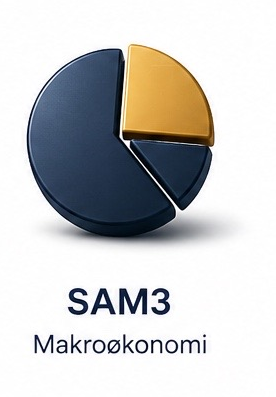
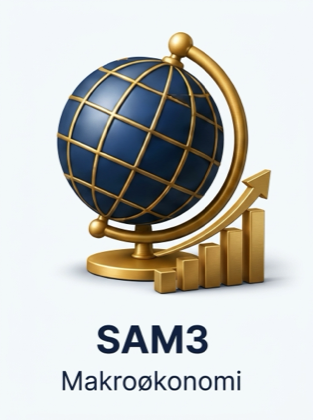
Add MET3 and RRR11 emblems and refresh subject emblems

diff --git a/shared/subject-meta.js b/shared/subject-meta.js
@@ -31,7 +31,7 @@
       code: 'MET3',
       name: 'Databehandling for økonomer',
       icon: 'ƒ',
-      emblem: '../assets/haugnes-logo-mark.svg',
+      emblem: '../assets/emblems/MET3.png',
       accent: '#15803d',
       status: 'active',
       statusText: 'Klar',
@@ -318,6 +318,31 @@
     } catch (e) {}
   }
 
+  var DEDICATED_EMBLEMS = {
+    BED1: '../assets/emblems/BED1.png',
+    KOM1: '../assets/emblems/KOM1.png',
+    MAT10: '../assets/emblems/MAT10.png',
+    MET1: '../assets/emblems/MET1.png',
+    MET2: '../assets/emblems/MET2.png',
+    MET3: '../assets/emblems/MET3.png',
+    RET14: '../assets/emblems/RET14.png',
+    RET1A: '../assets/emblems/RET1A.png',
+    RRR11: '../assets/emblems/RRR11.png',
+    SAM1A: '../assets/emblems/SAM1A.png',
+    SAM2: '../assets/emblems/SAM2.png',
+    SAM3: '../assets/emblems/SAM3.png',
+    SOL1: '../assets/emblems/SOL1.png'
+  };
+
+  function resolveSubjectEmblem(subjectCode, candidate, fallback) {
+    var clean = code(subjectCode);
+    var dedicated = DEDICATED_EMBLEMS[clean];
+    if (dedicated && (!candidate || /haugnes-logo-mark\.svg$|Flashcardslogo\.png$/i.test(String(candidate)))) {
+      return dedicated;
+    }
+    return candidate || dedicated || fallback || '../assets/Flashcardslogo.png';
+  }
+
   function allSubjectList() {
     var custom = loadCustomSubjectsLocal();
     var map = {};
@@ -328,14 +353,15 @@
     });
     custom.forEach(function (c) {
       var cCode = code(c.code);
+      var patched = Object.assign({}, c, { emblem: resolveSubjectEmblem(cCode, c.emblem) });
       if (!map[cCode]) {
         map[cCode] = true;
-        var decorated = withCategory(Object.assign({}, c), c.categoryId || 'electives', c.sortOrder || 99);
+        var decorated = withCategory(patched, c.categoryId || 'electives', c.sortOrder || 99);
         list.push(decorated);
       } else {
         var idx = list.findIndex(function (item) { return code(item.code) === cCode; });
         if (idx !== -1) {
-          list[idx] = withCategory(Object.assign({}, list[idx], c), c.categoryId || list[idx].categoryId || 'electives', c.sortOrder || list[idx].sortOrder || 99);
+          list[idx] = withCategory(Object.assign({}, list[idx], patched), c.categoryId || list[idx].categoryId || 'electives', c.sortOrder || list[idx].sortOrder || 99);
         }
       }
     });
@@ -362,7 +388,7 @@
       categoryId: categoryId,
       accent: accent,
       icon: iconStr,
-      emblem: data.emblem || '../assets/Flashcardslogo.png',
+      emblem: resolveSubjectEmblem(cleanCode, data.emblem),
       path: path,
       flashcards: flashcards,
       status: data.status || 'active',
@@ -464,7 +490,7 @@
       name: row.name || cleanCode,
       kicker: row.kicker || '',
       icon: row.icon || '📚',
-      emblem: '../assets/Flashcardslogo.png',
+      emblem: resolveSubjectEmblem(cleanCode, row.emblem),
       accent: row.accent || '#2563eb',
       categoryId: row.category_id || 'electives',
       status: deriveStatus(row.status_text),
@@ -635,7 +661,7 @@
         code: subjectCode,
         name: row.name || previous.name || subjectCode,
         icon: row.icon || previous.icon || '✦',
-        emblem: row.emblem || previous.emblem || '',
+        emblem: resolveSubjectEmblem(subjectCode, row.emblem || previous.emblem, ''),
         accent: row.accent || previous.accent || '#2f62ff',
         status: row.status || previous.status || 'active',
         statusText: previous.statusText || 'Aktiv',

diff --git a/user/butikk.html b/user/butikk.html
@@ -261,14 +261,14 @@ a{text-decoration:none;color:inherit}button,input,select{font-family:inherit}
 <script src="../shared/auth-guard.js?v=20261020-cleanup"></script>
 <script>
 var SUBJECTS = [
-  { code: 'RET14', name: 'Skatterett', accent: '#2f62ff', icon: '⚖', summary: 'Skatt, fradrag, aksjer, personinntekt, arv og eksamensanalyse.' },
-  { code: 'SOL1', name: 'Organisasjonsatferd', accent: '#20b97a', icon: '♣', summary: 'Begreper, teorier, modeller, caseforståelse og teoriskriving.' },
-  { code: 'SAM2', name: 'Mikroøkonomi', accent: '#f09828', icon: '◔', summary: 'Konsumentteori, produsentteori, marked og velferd.' },
-  { code: 'SAM3', name: 'Makroøkonomi', accent: '#ef4444', icon: '↗', summary: 'IS-MP, Phillipskurven, Solow og Romer — komplette V25- og V26-pakker.' },
-  { code: 'MET2', name: 'Metode', accent: '#7c3aed', icon: 'Σ', summary: 'Statistikk, hypotesetesting og kvantitativ metode.' },
-  { code: 'MET3', name: 'Databehandling for økonomer', accent: '#15803d', icon: 'ƒ', summary: 'Excel-formler, praktiske modeller og Power Query.' },
-  { code: 'MAT10', name: 'Matematikk', accent: '#0891b2', icon: '∫', summary: 'Funksjoner, derivasjon, integrasjon og lineær algebra.' },
-  { code: 'SAM1A', name: 'Mikroøkonomi intro', accent: '#f09828', icon: '↗', emblem: '../assets/emblems/SAM1A.png', summary: 'Læringsmål, kompendium og eksamensrelevante modeller.' },
+  { code: 'RET14', name: 'Skatterett', accent: '#2f62ff', icon: '⚖', emblem: '../assets/emblems/RET14.png', summary: 'Skatt, fradrag, aksjer, personinntekt, arv og eksamensanalyse.' },
+  { code: 'SOL1', name: 'Organisasjonsatferd', accent: '#20b97a', icon: '♣', emblem: '../assets/emblems/SOL1.png', summary: 'Begreper, teorier, modeller, caseforståelse og teoriskriving.' },
+  { code: 'SAM2', name: 'Mikroøkonomi', accent: '#f09828', icon: '◔', emblem: '../assets/emblems/SAM2.png', summary: 'Konsumentteori, produsentteori, marked og velferd.' },
+  { code: 'SAM3', name: 'Makroøkonomi', accent: '#ef4444', icon: '↗', emblem: '../assets/emblems/SAM3.png', summary: 'IS-MP, Phillipskurven, Solow og Romer — komplette V25- og V26-pakker.' },
+  { code: 'MET2', name: 'Metode', accent: '#7c3aed', icon: 'Σ', emblem: '../assets/emblems/MET2.png', summary: 'Statistikk, hypotesetesting og kvantitativ metode.' },
+  { code: 'MET3', name: 'Databehandling for økonomer', accent: '#15803d', icon: 'ƒ', emblem: '../assets/emblems/MET3.png', summary: 'Excel-formler, praktiske modeller og Power Query.' },
+  { code: 'MAT10', name: 'Matematikk', accent: '#0891b2', icon: '∫', emblem: '../assets/emblems/MAT10.png', summary: 'Funksjoner, derivasjon, integrasjon og lineær algebra.' },
+  { code: 'SAM1A', name: 'Etikk, økonomi og bærekraft', accent: '#f09828', icon: '↗', emblem: '../assets/emblems/SAM1A.png', summary: 'Læringsmål, kompendium og eksamensrelevante modeller.' },
   { code: 'MET1', name: 'Matematikk for økonomer', accent: '#06b6d4', icon: '%', emblem: '../assets/emblems/MET1.png', summary: 'NNV, rente, annuitet og metodeoppgaver.' },
   { code: 'KOM1', name: 'Kommunikasjon', accent: '#e8bc68', icon: '✎', emblem: '../assets/emblems/KOM1.png', summary: 'Rapport, presentasjon og akademisk skriving.' },
   { code: 'RET1A', name: 'Juridiske emner', accent: '#3b82f6', icon: '§', emblem: '../assets/emblems/RET1A.png', summary: 'Avtalerett, pengekrav, selskapsrett og juridisk metode.' },

diff --git a/shared/subject-access.js b/shared/subject-access.js
@@ -11,14 +11,14 @@
   var CORE_CODES = ['RET14', 'SOL1', 'SAM2', 'SAM3'];
   var DEFAULT_CODES = ['RET14', 'SOL1', 'SAM2', 'SAM3', 'MET2', 'MET3', 'MAT10', 'SAM1A', 'MET1', 'KOM1', 'RET1A', 'BED1'];
   var FALLBACK_CATALOG = [
-    { code: 'MET3', name: 'Databehandling for økonomer', accent: '#15803d', icon: 'ƒ' },
-    { code: 'RET14', name: 'Skatterett', accent: '#2f62ff', icon: '⚖' },
-    { code: 'SOL1', name: 'Organisasjonsatferd', accent: '#20b97a', icon: '🧠' },
-    { code: 'SAM2', name: 'Mikroøkonomi', accent: '#f09828', icon: '📈' },
-    { code: 'SAM3', name: 'Makroøkonomi', accent: '#ef4444', icon: '🌍' },
-    { code: 'MET2', name: 'Metode', accent: '#7c3aed', icon: 'Σ' },
-    { code: 'MAT10', name: 'Matematikk', accent: '#0891b2', icon: '∫' },
-    { code: 'SAM1A', name: 'Mikroøkonomi intro', accent: '#f09828', icon: '↗', emblem: '../assets/emblems/SAM1A.png' },
+    { code: 'MET3', name: 'Databehandling for økonomer', accent: '#15803d', icon: 'ƒ', emblem: '../assets/emblems/MET3.png' },
+    { code: 'RET14', name: 'Skatterett', accent: '#2f62ff', icon: '⚖', emblem: '../assets/emblems/RET14.png' },
+    { code: 'SOL1', name: 'Organisasjonsatferd', accent: '#20b97a', icon: '🧠', emblem: '../assets/emblems/SOL1.png' },
+    { code: 'SAM2', name: 'Mikroøkonomi', accent: '#f09828', icon: '📈', emblem: '../assets/emblems/SAM2.png' },
+    { code: 'SAM3', name: 'Makroøkonomi', accent: '#ef4444', icon: '🌍', emblem: '../assets/emblems/SAM3.png' },
+    { code: 'MET2', name: 'Metode', accent: '#7c3aed', icon: 'Σ', emblem: '../assets/emblems/MET2.png' },
+    { code: 'MAT10', name: 'Matematikk', accent: '#0891b2', icon: '∫', emblem: '../assets/emblems/MAT10.png' },
+    { code: 'SAM1A', name: 'Etikk, økonomi og bærekraft', accent: '#f09828', icon: '↗', emblem: '../assets/emblems/SAM1A.png' },
     { code: 'MET1', name: 'Matematikk for økonomer', accent: '#06b6d4', icon: '%', emblem: '../assets/emblems/MET1.png' },
     { code: 'KOM1', name: 'Kommunikasjon', accent: '#e8bc68', icon: '✎', emblem: '../assets/emblems/KOM1.png' },
     { code: 'RET1A', name: 'Juridiske emner', accent: '#3b82f6', icon: '§', emblem: '../assets/emblems/RET1A.png' },

diff --git a/PROJECT_MAP.md b/PROJECT_MAP.md
@@ -1,6 +1,6 @@
 # Project Map
 
-Last updated: 2026-10-21
+Last updated: 2026-10-22
 
 Purpose: make future app changes faster by documenting the stable entry points, data sources, and search paths. Update this file whenever a change moves, renames, adds, or removes app-facing functionality.
 
@@ -23,7 +23,7 @@ Purpose: make future app changes faster by documenting the stable entry points, 
 - Login/auth entry: `login.html` (incl. "Glemt passord?"); password reset landing: `reset-password.html`.
 - Authenticated user pages: `user/`.
 - Subject pages: one folder per subject, for example `sam3/`, `sam2/`, `ret14/`, `sol1/`.
-- Subject app icons/emblems and A-besvarelser flow emblems: `assets/emblems/`, referenced from `shared/subject-meta.js` and `shared/haugnes-answer-library.js`.
+- Subject app icons/emblems and A-besvarelser flow emblems: `assets/emblems/` (including `MET3.png`, `RRR11.png`, and updated `SAM1A.png`, `SAM2.png`, `SAM3.png`, `MAT10.png`, `SOL1.png`), referenced from `shared/subject-meta.js`, `shared/subject-access.js`, `user/butikk.html`, and `shared/haugnes-answer-library.js`.
 - Shared behavior, data, styling, and page enhancement scripts: `shared/`.
 - Supabase setup/schema seed reference: `supabase-setup.sql`.
 - Supabase Edge Functions: `supabase/functions/`.
@@ -54,7 +54,7 @@ Purpose: make future app changes faster by documenting the stable entry points, 
 
 - Auth/session/client bootstrap: `shared/auth-guard.js`. Root paths resolve from the bootstrap script even when called by inline subject code, keeping login redirects and assets correct for universal subject links. The COSO release versions its subject auth/study entry points and updated study assets to refresh browser caches.
 - Entitlements and subject access: `shared/entitlements.js`, `shared/subject-access.js`, `shared/subject-gate.js`.
-- Subject metadata: `shared/subject-meta.js`. Merges the published `app_subjects` catalogue with published custom Fagstudio rows from `subject_pages`, so newly created subjects appear in navigation and the shop.
+- Subject metadata: `shared/subject-meta.js`. Merges the published `app_subjects` catalogue with published custom Fagstudio rows from `subject_pages`, so newly created subjects appear in navigation and the shop, and maps dedicated emblems (`assets/emblems/*.png`, including `MET3.png` and `RRR11.png`).
 - Subject page rendering/data/enhancements: `shared/subject-page-renderer.js`, `shared/subject-page-data.js`, `shared/subject-page-enhancements.js`, `shared/subject-resources.js`.
 - Subject Studio API (single source of truth for admin-editable subject pages): `shared/subjects-studio.js`. Reads/writes `subject_pages`, `subject_page_blocks` and `subject_files` (Storage bucket `subject-files`) in Supabase. Automatic import from legacy localStorage templates is retired to prevent removed demos from being restored or published Studio edits from being overwritten. Existing local data is retained; `migrateLegacyIfNeeded` remains a no-op compatibility API. Exposes `window.SubjectsStudio` (listSubjects/getSubject/upsertSubject/upsertBlock/reorderBlocks/deleteBlock/uploadFile/updateFile/deleteFile/signedUrl/subscribeChanges).
 - Subject document publishing: `shared/subject-page-studio-bridge.js` converts files selected in the subject modals from FileReader data to real File uploads. `shared/subjects-studio.js` uploads to private Storage before returning protected viewer links, enables the A-besvarelser section after document publication, rejects empty new answer entries, and supports attaching/replacing a local document on an existing entry through Fagstudio. Failed new uploads remove their incomplete metadata; replacing a file preserves the old document on upload failure. Missing legacy attachments are explicitly marked on the subject page.
